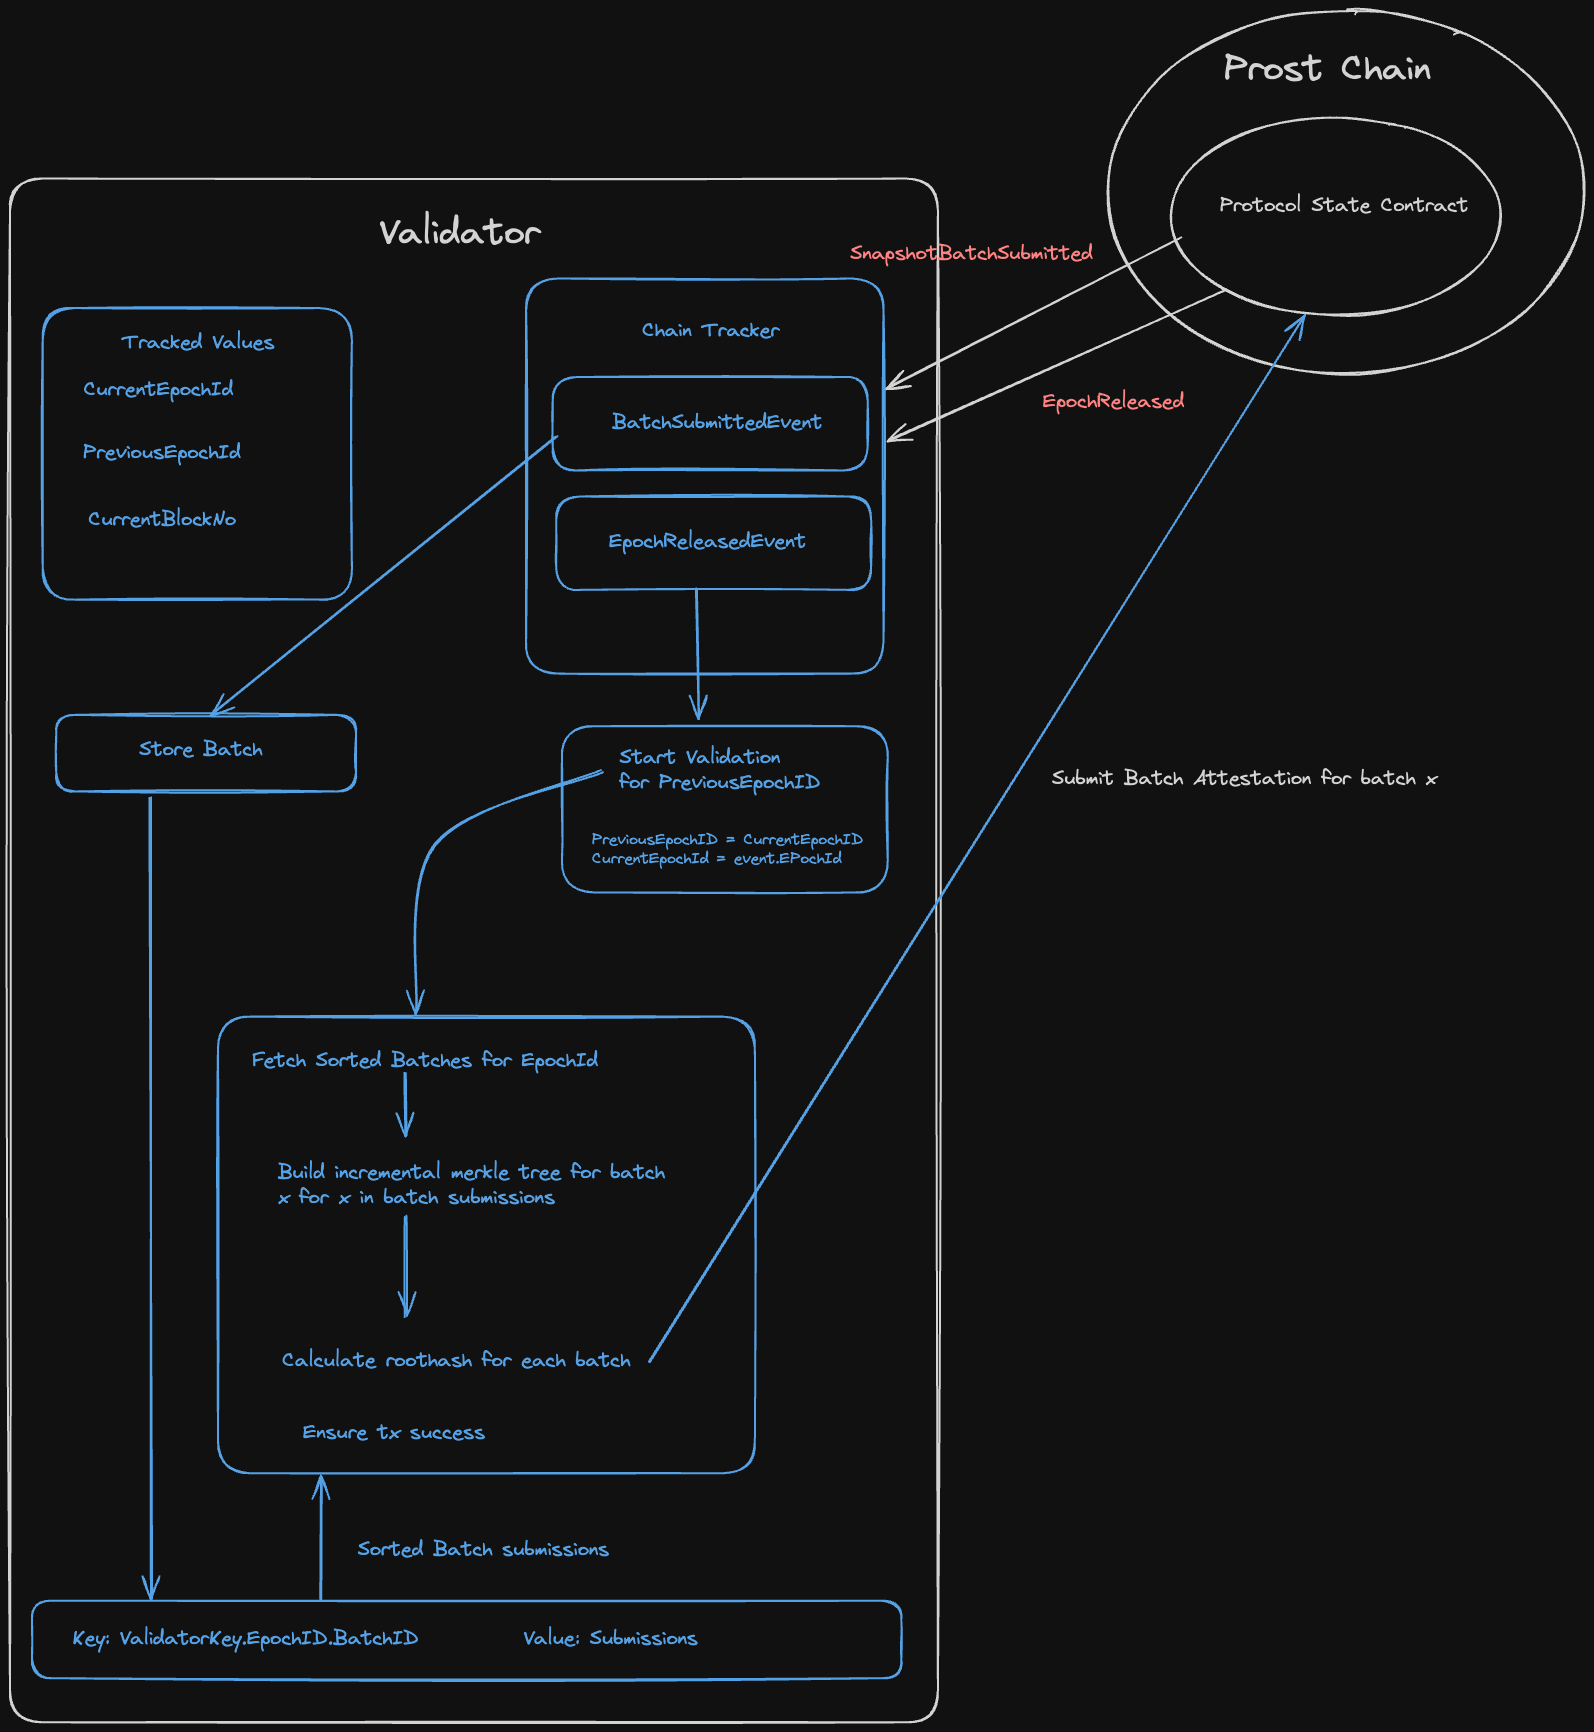
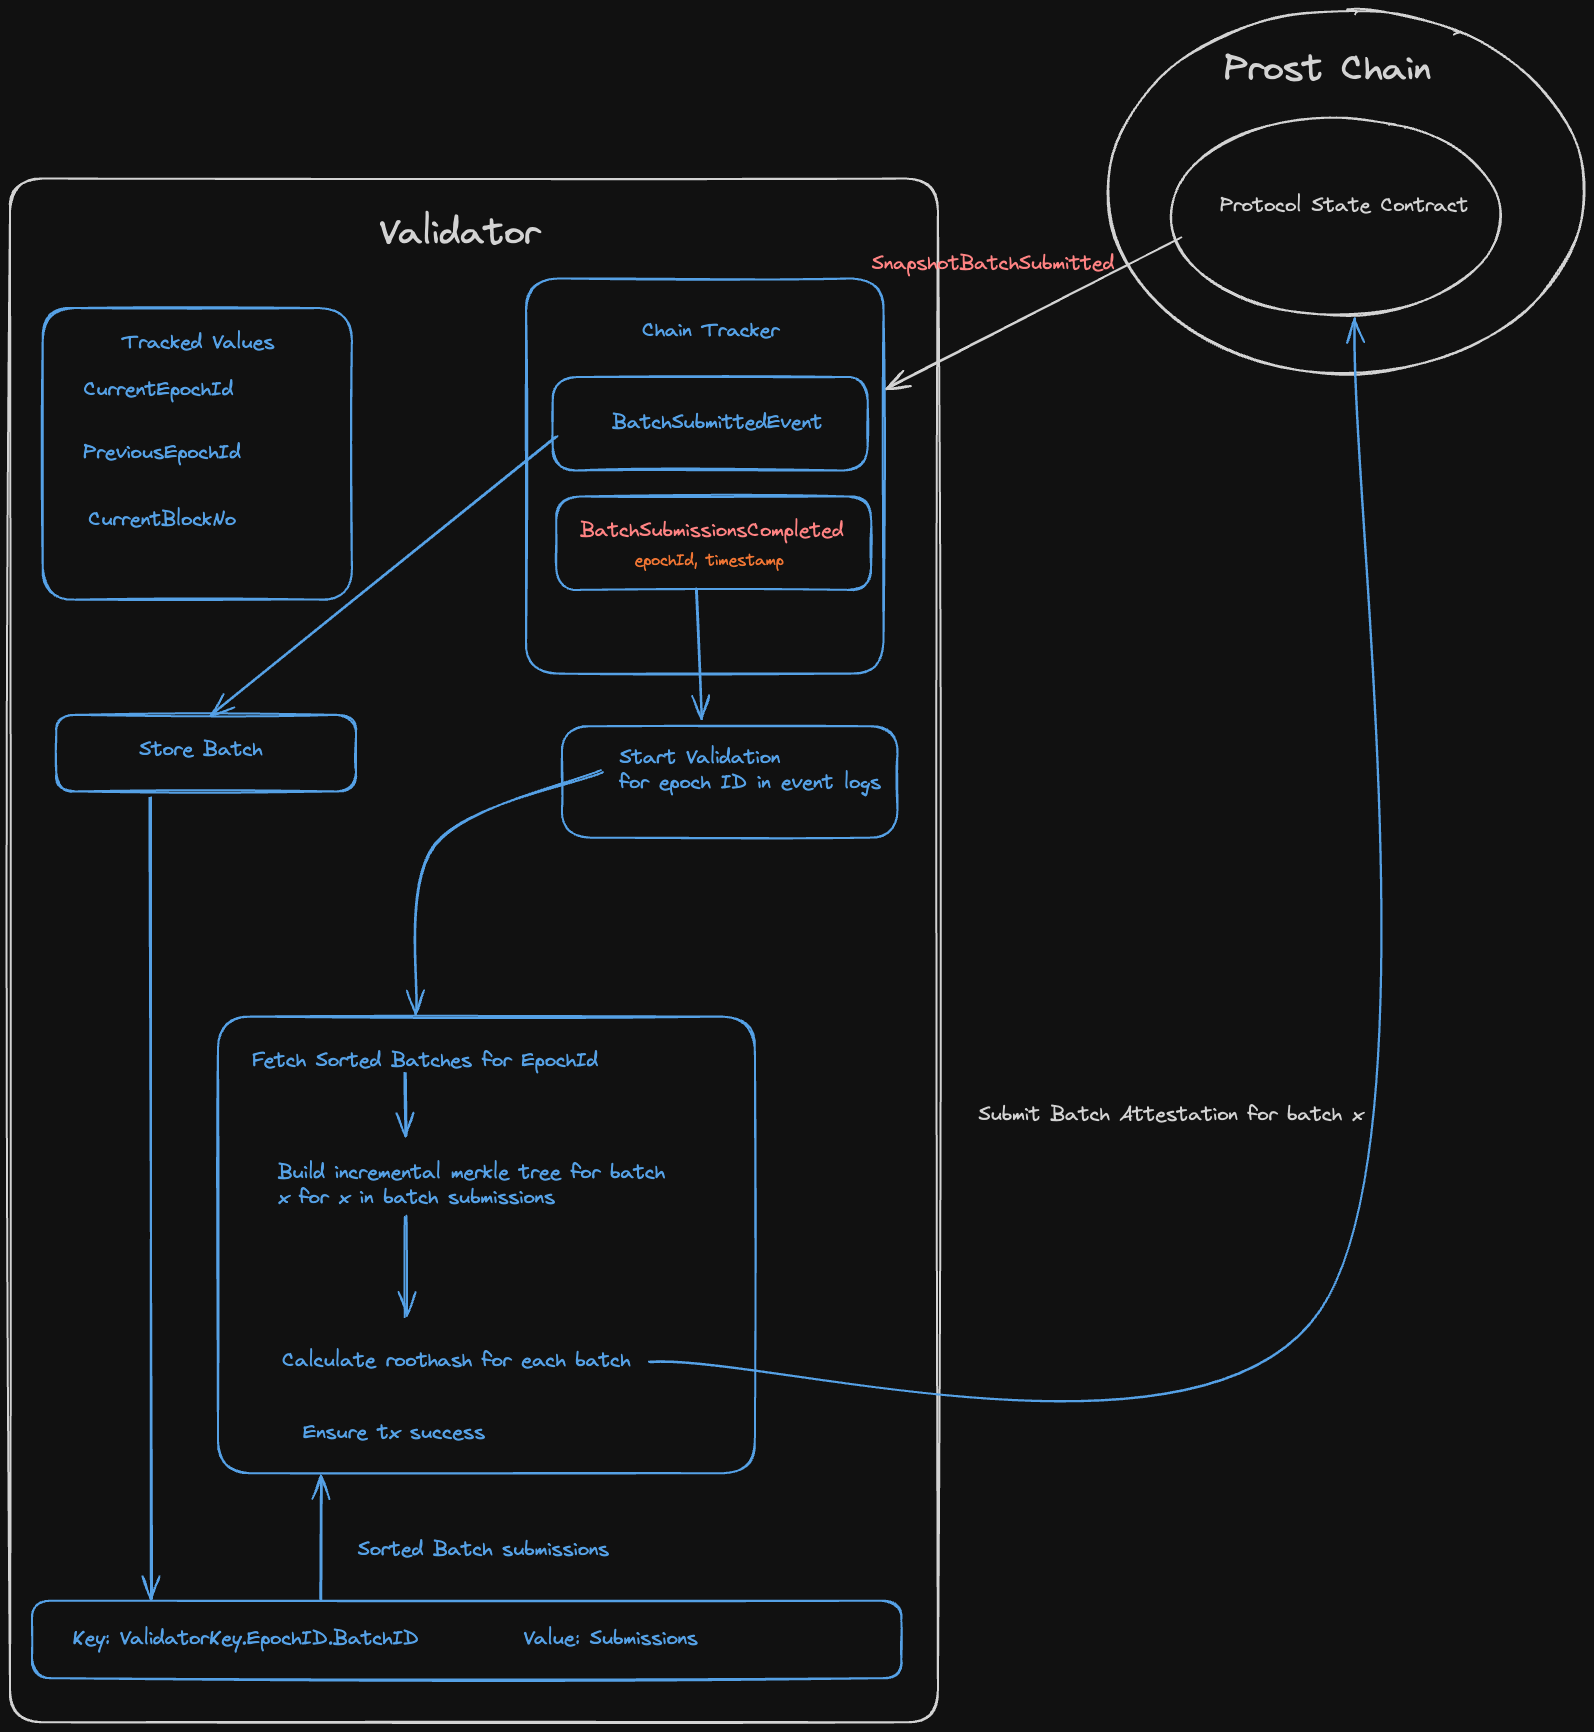
clarified validation workflow and timeline

diff --git a/docs/Protocol/Protocol_v2/validator.md b/docs/Protocol/Protocol_v2/validator.md
@@ -12,7 +12,7 @@ As the snapshot submission batches are [anchored on the protocol state by the se
 
 ## State transitions
 
-![Snapshot submission, validation and finalization state transitions](/images/validator-resubmission-workflow.png)
+![Snapshot submission, validation and finalization state transitions](/images/submission-validation-timeline.png)
 
 ### Batch submission
 
@@ -32,7 +32,5 @@ In case the majority of validators do not agree to the finalization, a resubmiss
 
 #### Trigger for batch validation
 
-For the current iteration of the Protocol V2 release, upon an `EpochReleased` event for an epoch `e(i)` the attestation for finalizations committed by the sequencer for epoch `e(i-1)` begins.
-
-This will soon be replaced by a faster finality trigger that will not have to wait for the next epoch release. For practical purposes, on a high throughput chain with smaller epochs, this process is near instant.
+For the current iteration of the Protocol V2 release, once the sequencer for a data market has finished committing all batches of submissions, it triggers an event release `BatchSubmissionsCompleted` from the protocol state smart contract that signals the validators to begin submitting their attestations.
 
